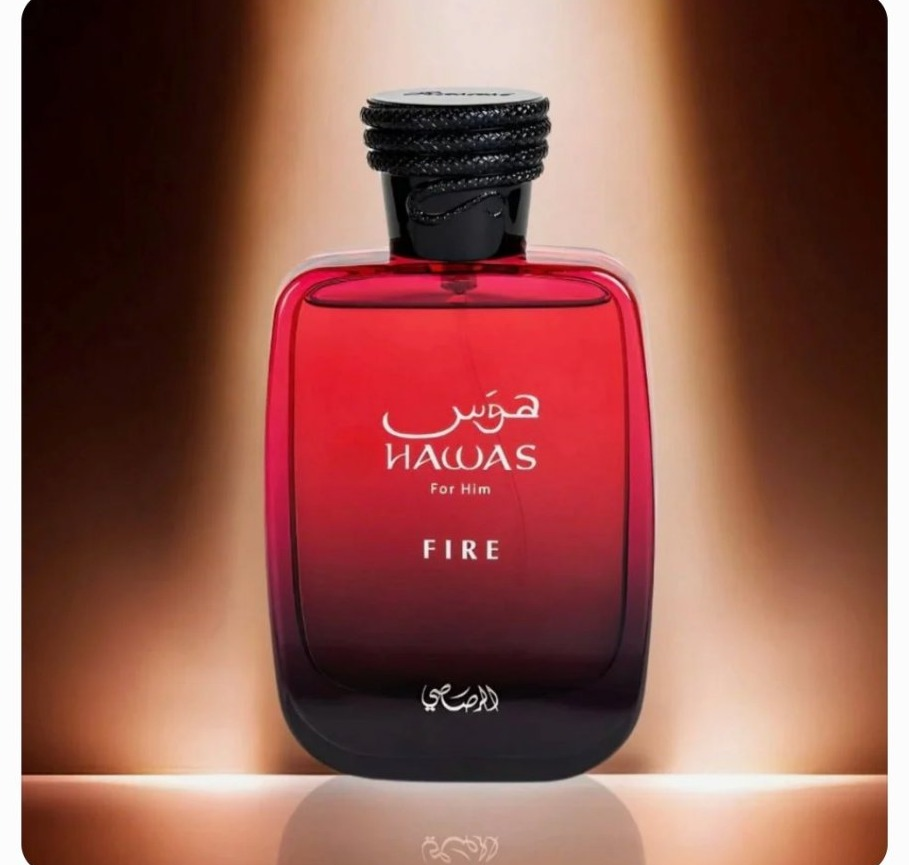
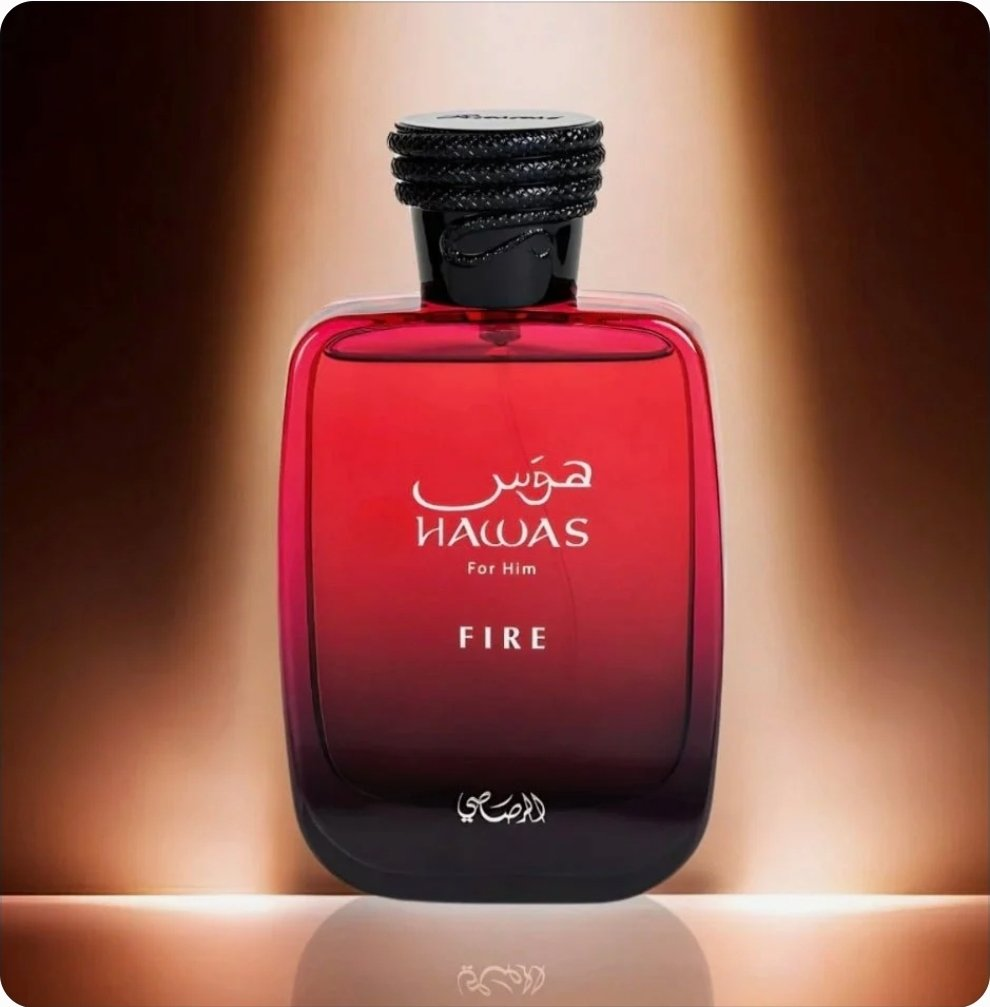
Replace Rasasi Hawas Fire photos with Boss's new shots

diff --git a/index.html b/index.html
@@ -697,7 +697,7 @@
         { name:'Bentley Intense Cologne for Men', niche:'Bentley · Men · 3.4 oz EDP', direction:'Rum, leather and smoky woods', description:'Warm rum and spice flow into leather, incense and dark woods. Rich, confident and best suited to cool weather or an evening setting.', category:'woody', images:[{src:'assets/product-bentley-intense.jpg', alt:'Bentley Intense bottle and box on a clean white background'},{src:'assets/product-bentley-intense-2.jpg', alt:'Bentley Intense bottle on a clean white background'}], price:40, decantPrice:10, originalPrice:52, featured:6, paymentLink:'https://buy.stripe.com/bJeeVf3UBaAcbWi5Crf7i19' },
         { name:'Lattafa Pride Peace & Love Perfume for Unisex', niche:'Lattafa Pride · Unisex · 3.4 oz EDP', direction:'Soft florals, creamy woods and amber', description:'A smooth, comforting blend of luminous florals, creamy woods and mellow amber. Refined and easygoing, with a softly enveloping trail.', category:'amber', images:[{src:'assets/product-lattafa-peace-love.jpg', alt:'Lattafa Pride Peace and Love scroll bottle and gold box on a clean white background'},{src:'assets/product-lattafa-peace-love-2.jpg', alt:'Lattafa Pride Peace and Love scroll bottle on a clean white background'}], price:34, decantPrice:9, originalPrice:40, featured:7, paymentLink:'https://buy.stripe.com/9B66oJ2Qx6jW1hE6Gvf7i1a'},
         { name:'Lattafa Yara Elixir Perfume for Women', niche:'Lattafa · Women · 3.4 oz EDP', direction:'Lush berries, vanilla and warm amber', description:'Juicy fruit and soft florals melt into creamy vanilla and warm amber. Sweet, playful and plush without losing its polished finish.', category:'sweet', images:[{src:'assets/lattafa-yara-elixir-1.jpg', alt:'Lattafa Yara Elixir bottle on a clean white background'},{src:'assets/lattafa-yara-elixir-2.jpg', alt:'Lattafa Yara Elixir bottle in a pink fragrance composition'},{src:'assets/lattafa-yara-elixir-3.jpg', alt:'Lattafa Yara Elixir bottle and box with berries, vanilla and caramel notes'},{src:'assets/lattafa-yara-elixir-4.jpg', alt:'Lattafa Yara Elixir bottle with berries, vanilla and caramel notes'}], price:39, decantPrice:10, originalPrice:44, featured:8, paymentLink:'https://buy.stripe.com/7sYfZjfDj0ZC3pMc0Pf7i1b' },
-        { name:'Rasasi Hawas Fire Cologne for Men', niche:'Rasasi · Men · 3.38 oz EDP', direction:'Red fruits, aromatic freshness and woods', description:'A vibrant mix of juicy fruit and crisp aromatics gains depth from spice and polished woods. Fresh at first spray, then warmer and more intense.', category:'fresh', images:[{src:'assets/product-rasasi-hawas-fire.jpg', alt:'Rasasi Hawas Fire bottle and box — clean packshot'},{src:'assets/gallery-rasasi-hawas-fire-1.jpg', alt:'Rasasi Hawas Fire Cologne for Men — customer photo 1'},{src:'assets/gallery-rasasi-hawas-fire-2.jpg', alt:'Rasasi Hawas Fire Cologne for Men — customer photo 2'}], price:54, decantPrice:14, originalPrice:75, featured:9 , paymentLink:'https://buy.stripe.com/5kQfZj3UB5fS9Oa5Crf7i14'},
+        { name:'Rasasi Hawas Fire Cologne for Men', niche:'Rasasi · Men · 3.38 oz EDP', direction:'Red fruits, aromatic freshness and woods', description:'A vibrant mix of juicy fruit and crisp aromatics gains depth from spice and polished woods. Fresh at first spray, then warmer and more intense.', category:'fresh', images:[{src:'assets/product-rasasi-hawas-fire.jpg', alt:'Rasasi Hawas Fire red bottle and black box on a clean white background'},{src:'assets/gallery-rasasi-hawas-fire-1.jpg', alt:'Rasasi Hawas Fire red bottle close-up on a clean white background'},{src:'assets/gallery-rasasi-hawas-fire-2.jpg', alt:'Rasasi Hawas Fire red bottle in a warm glow'}], price:54, decantPrice:14, originalPrice:75, featured:9 , paymentLink:'https://buy.stripe.com/5kQfZj3UB5fS9Oa5Crf7i14'},
         { name:'Armaf Odyssey Mega Cologne for Men', niche:'Armaf · Men · 3.4 oz EDP', direction:'Citrus, ginger and aromatic woods', description:'Zesty citrus and ginger create a brisk opening before aromatic herbs and clean woods take over. Modern, bright and made for everyday momentum.', category:'fresh', images:[{src:'assets/product-armaf-odyssey-mega.jpg', alt:'Armaf Odyssey Mega yellow leather bottle on a clean white background'},{src:'assets/product-armaf-odyssey-mega-2.jpg', alt:'Armaf Odyssey Mega bottle and yellow box on a clean white background'}], price:31, decantPrice:8, originalPrice:38, featured:10 , paymentLink:'https://buy.stripe.com/eVqdRb0Ip7o0e4q7Kzf7i0Z'},
         { name:'Lattafa Maison Alhambra Delilah Perfume for Women', niche:'Maison Alhambra · Women · 3.4 oz EDP', direction:'Rose, tart fruit and soft vanilla musk', description:'Tart fruit brightens a romantic rose heart, while vanilla and musk soften the finish. Airy, graceful and quietly sweet.', category:'fresh', images:[{src:'assets/product-maison-alhambra-delilah.jpg', alt:'Maison Alhambra Delilah pink bottle and box on a clean white background'},{src:'assets/product-maison-alhambra-delilah-2.jpg', alt:'Maison Alhambra Delilah pink bottle and box, alternate angle'}], price:28, decantPrice:7, originalPrice:34, featured:11 , paymentLink:'https://buy.stripe.com/dRmeVf8aR8s43pM8ODf7i1c'},
         { name:'Barakkat Satin Oud Perfume for Unisex', niche:'Barakkat · Unisex · 3.4 oz EDP', direction:'Velvety rose, oud and vanilla amber', description:'Velvety rose meets dark oud and a warm vanilla-amber base. Opulent and smooth, with the kind of depth that suits evenings and special occasions.', category:'woody', images:[{src:'assets/product-barakkat-satin-oud.jpg', alt:'Barakkat Satin Oud bottle in a styled petal and oud flat-lay'},{src:'assets/product-barakkat-satin-oud-2.jpg', alt:'Barakkat Satin Oud bottle with floating ingredients composition'},{src:'assets/product-barakkat-satin-oud-3.jpg', alt:'Barakkat Satin Oud bottle top-down with cap off'},{src:'assets/product-barakkat-satin-oud-4.jpg', alt:'Barakkat Satin Oud bottle on warm stones with oud wood'}], price:22, decantPrice:6, originalPrice:27, featured:12 , paymentLink:'https://buy.stripe.com/7sY14pfDjeQs7G2c0Pf7i1f'},
